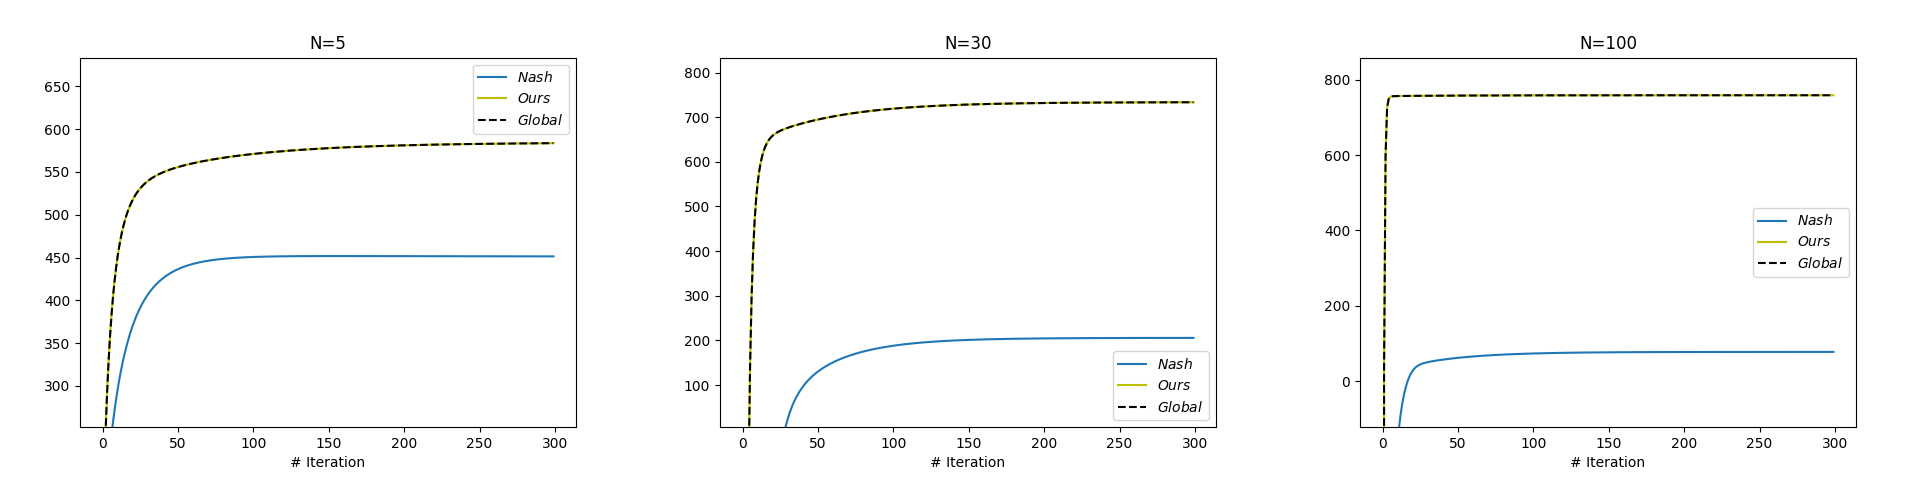
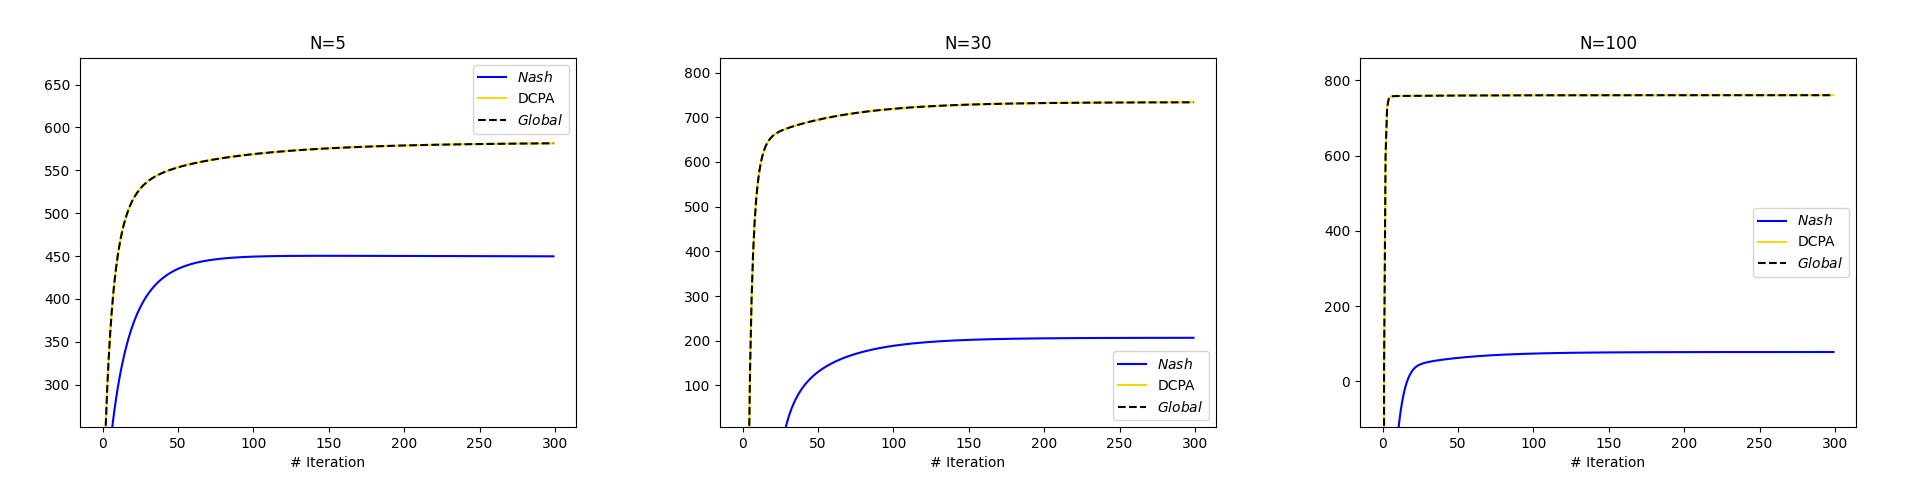
Update plot to the DCPA and adding dnn plots

diff --git a/QuadraticGames/dnn_utils/dnn_plots.py b/QuadraticGames/dnn_utils/dnn_plots.py
@@ -1,0 +1,118 @@
+"""
+Created on : ------
+
+@author: Ariel_Kantorovich
+"""
+
+import matplotlib.pyplot as plt
+import numpy as np
+from pathlib import Path
+import torch
+from typing import Callable, Optional, Tuple
+
+def plot_loss(
+    output_dir: str,
+    num_epochs: int,
+    train_list: list,
+    valid_list: list,
+    filename: str = "loss_curve.jpg",
+):
+    """
+    Save training and validation loss to an image.
+
+    :param output_dir: directory to save the figure
+    :param num_epochs: number of epochs
+    :param train_list: training loss per epoch
+    :param valid_list: validation loss per epoch
+    :param filename: output image name
+    """
+    output_dir = Path(output_dir)
+    output_dir.mkdir(parents=True, exist_ok=True)
+
+    epochs = np.arange(1, num_epochs + 1)
+
+    plt.figure(figsize=(8, 5))
+    plt.plot(epochs, train_list, label="train")
+    plt.plot(epochs, valid_list, label="valid")
+
+    plt.xlabel("Epoch")
+    plt.ylabel("Loss")
+    plt.legend()
+    plt.grid(True)
+
+    save_path = output_dir / filename
+    plt.savefig(save_path, dpi=150, bbox_inches="tight")
+    plt.close()
+
+    return save_path
+
+
+
[email redacted]_grad()
+def save_validation_scatter(
+    model: torch.nn.Module,
+    val_loader,
+    device: torch.device,
+    predicted_prior_fn: Callable[[torch.Tensor, torch.Tensor], torch.Tensor],
+    output_dir: str,
+    filename: str = "val_scatter.png",
+    jump: int = 600,
+    max_points: Optional[int] = None,
+) -> Path:
+    """
+    Runs model on val_loader, collects predictions/targets, and saves a scatter plot.
+
+    X-axis: targets
+    Y-axis: predictions
+    Also draws y=x reference line.
+
+    :param predicted_prior_fn: function(outputs, inputs) -> predicted_prior
+    :param jump: take every jump-th point (simple downsampling)
+    :param max_points: optional cap on number of points after downsampling
+    """
+    model.eval()
+
+    preds = []
+    targs = []
+
+    for inputs_pre, inputs, targets in val_loader:
+        inputs_pre = inputs_pre.to(device)
+        inputs = inputs.to(device)
+        targets = targets.to(device)
+
+        outputs = model(inputs_pre)
+        predicted_prior = predicted_prior_fn(outputs, inputs)
+
+        preds.append(predicted_prior.detach().cpu().numpy())
+        targs.append(targets.detach().cpu().numpy())
+
+    all_preds = np.concatenate(preds, axis=0).ravel()
+    all_targets = np.concatenate(targs, axis=0).ravel()
+
+    # Downsample for readability/speed
+    idx = np.arange(0, len(all_preds), max(1, jump))
+    if max_points is not None and len(idx) > max_points:
+        idx = idx[:max_points]
+
+    xs = all_targets[idx]
+    ys = all_preds[idx]
+
+    # Prepare output path
+    out_dir = Path(output_dir)
+    out_dir.mkdir(parents=True, exist_ok=True)
+    save_path = out_dir / filename
+
+    # Plot
+    plt.figure(figsize=(10, 6))
+    plt.scatter(xs, ys, label="Predictions", marker="o", alpha=0.6)
+    plt.scatter(xs, xs, label="y=x (Target)", marker="x", alpha=0.6)
+    plt.xlabel("Target")
+    plt.ylabel("Prediction")
+    plt.title("Validation: Predictions vs Targets")
+    plt.legend()
+    plt.grid(True)
+
+    plt.savefig(save_path, dpi=150, bbox_inches="tight")
+    plt.close()
+
+    return save_path

diff --git a/Online_Stage/energy_Online.py b/Online_Stage/energy_Online.py
@@ -465,7 +465,7 @@ if __name__ == '__main__':
     plt.plot(t, total_NE_reward, color='b', label="$Nash$"), plt.xlabel("# Iteration"), plt.legend()
     # plt.fill_between(t, total_NE_reward - total_NE_std, total_NE_reward + total_NE_std, color='b', alpha=0.2)
 
-    plt.plot(t, total_ml_reward, color='lightcoral', linestyle='-', label="$Ours$"), plt.xlabel("# Iteration"), plt.legend()
+    plt.plot(t, total_ml_reward, color='gold', linestyle='-', label="DCPA"), plt.xlabel("# Iteration"), plt.legend()
     plt.plot(t, total_global_reward, '--k', label="$Global$"), plt.xlabel("# Iteration"), plt.legend()
     plt.ylim(np.max(total_NE_reward)-200, np.max(total_global_reward)+100)
 